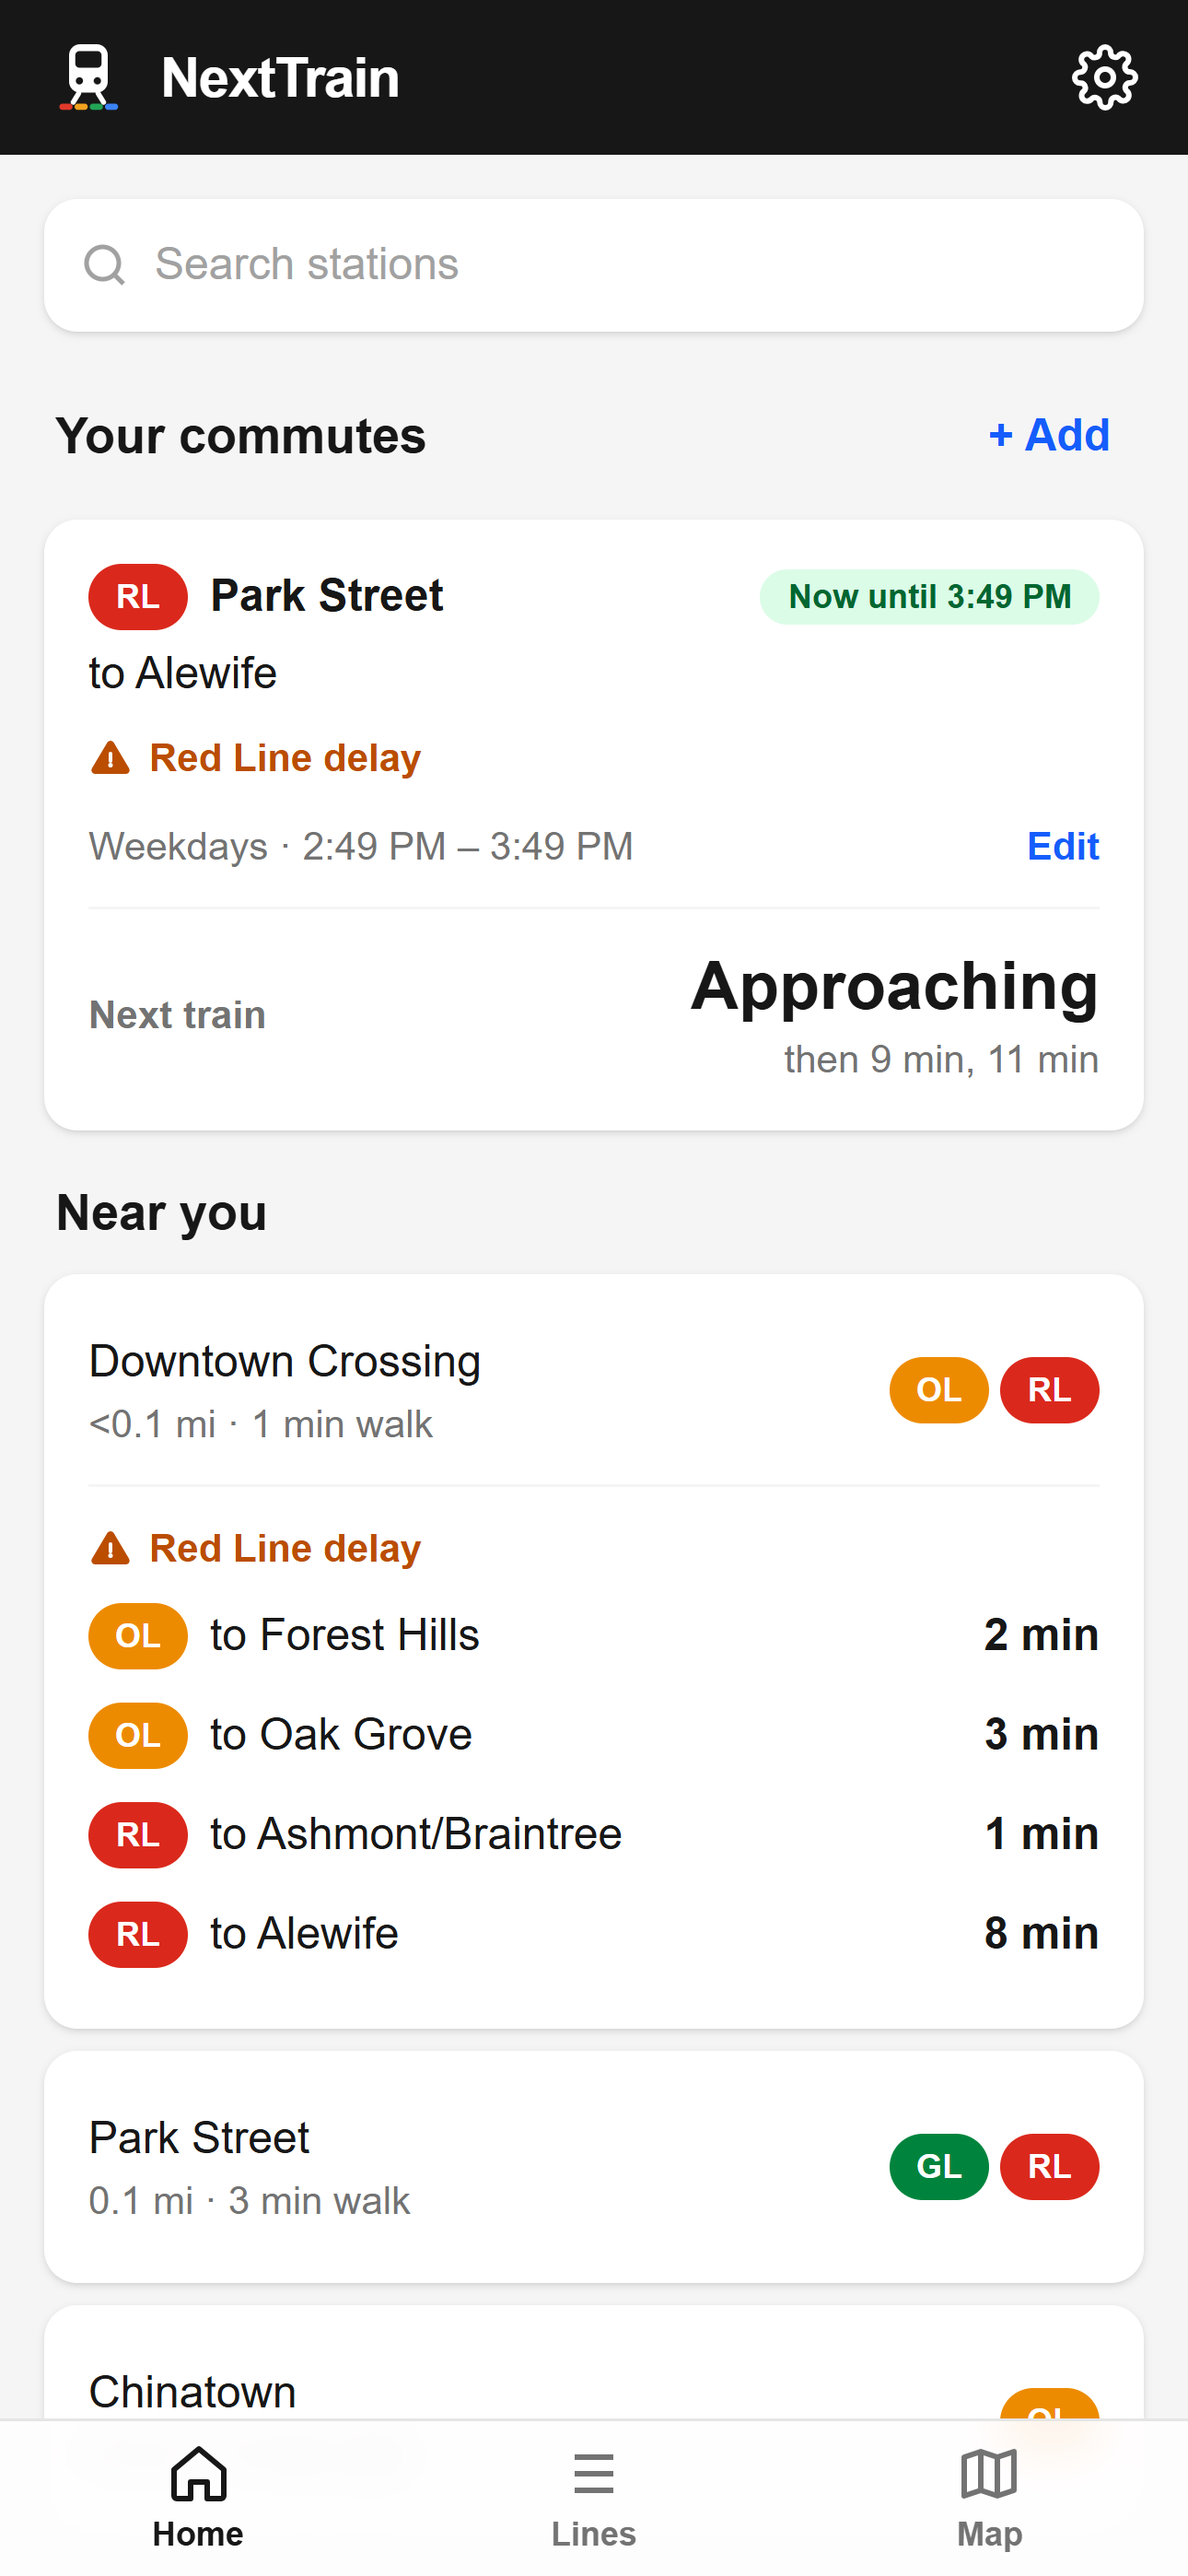
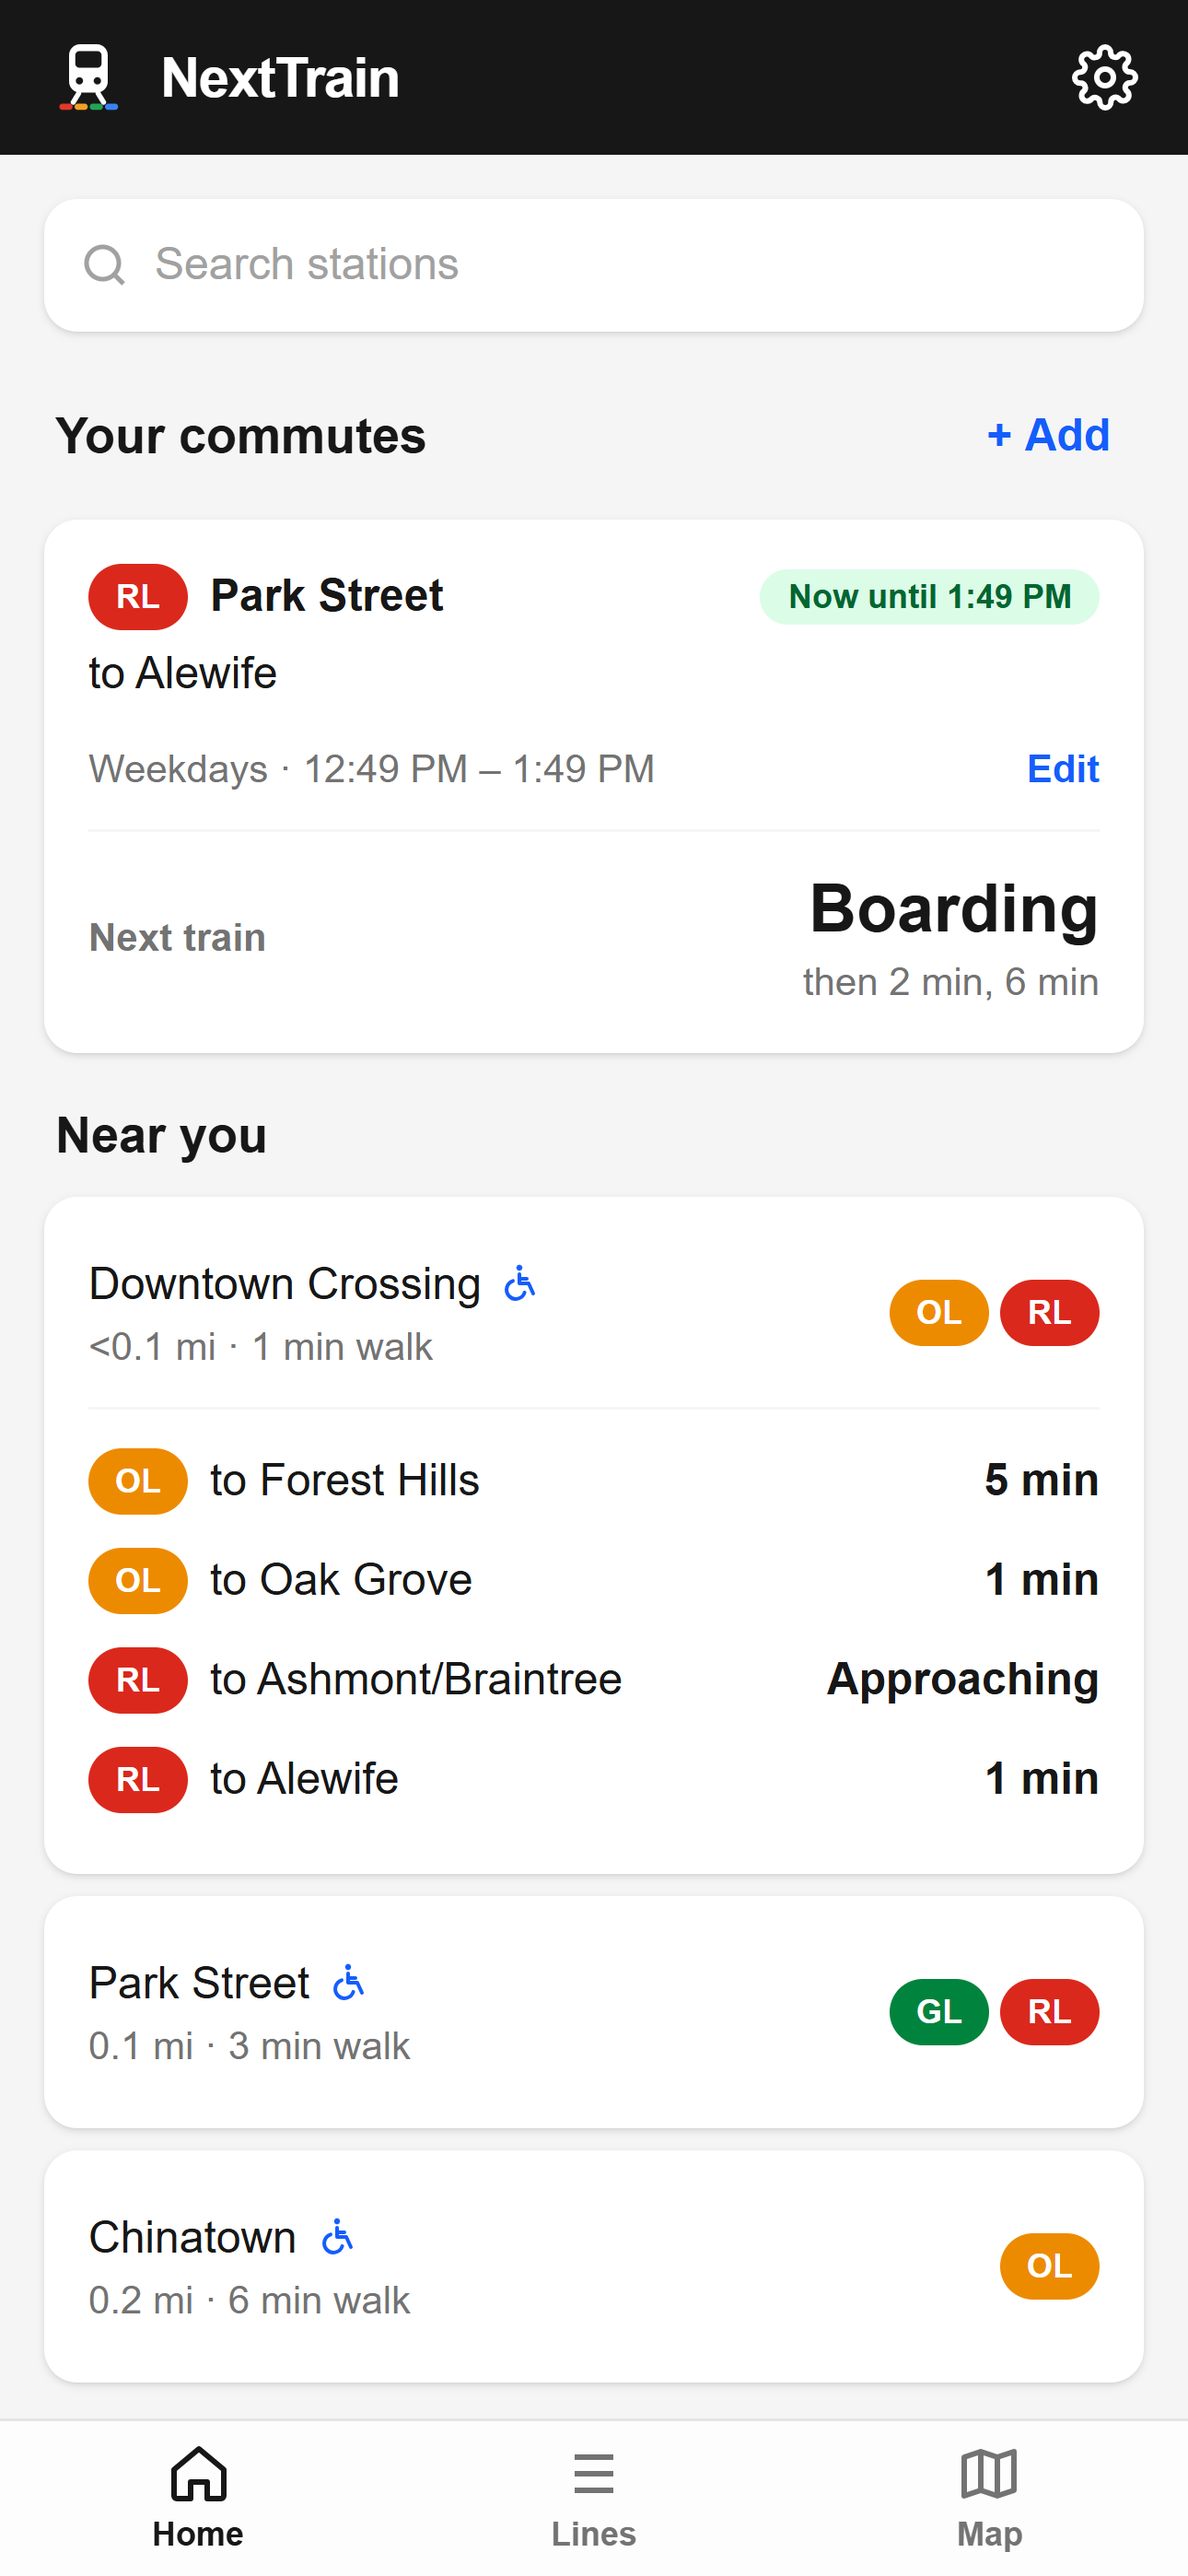
App Store screenshots retaken from the current app (Apple Maps, train cards, crowding) at 6.9" and 6.5" sizes; listing and review notes updated

diff --git a/docs/app-store/README.md b/docs/app-store/README.md
@@ -4,15 +4,21 @@ Everything App Store Connect asks for, drafted from what the app does today. Edi
 
 ## Screenshots
 
-In `screenshots/`: 1290 × 2796 PNGs, an accepted size for the required **6.9" iPhone** slot (Apple scales them down for smaller iPhones). Captured from the real app with live MBTA data on September 29, 2026.
+Captured from the iPhone app build (native mode) with live MBTA data on October 1, 2026, at both sizes App Store Connect asks for:
+
+- `screenshots/`: 1290 × 2796, the **6.9" iPhone** slot
+- `screenshots/6.5-inch/`: 1284 × 2778, the **6.5" iPhone** slot
 
 | File | Shows |
 |---|---|
-| `1-home.png` | Home: a commute happening now with its next train and an alert, and live departures at the nearest station |
-| `2-station.png` | A station's live departures by line and direction |
-| `3-lines.png` | Every line's service status |
-| `4-line-live-trains.png` | The Red Line diagram with live trains and direction arrows |
-| `5-map.png` | The live map of lines, stations, and trains |
+| `1-home.png` | Home: a commute happening now with its next train, and live departures at the nearest station |
+| `2-map.png` | The live map on Apple Maps: every line, station, and train, with direction arrows |
+| `3-map-train.png` | Zoomed in with station names, and a train's card: destination, next stop, and how crowded each car is |
+| `4-station.png` | A station's live departures by line and direction |
+| `5-line-live-trains.png` | The Red Line diagram with live trains and direction arrows |
+| `6-lines.png` | Every line's service status |
+
+To retake them, run the app locally (API on 5112, Vite on 5173) and capture at 430 × 932 and 428 × 926 CSS pixels at 3× with a commute saved. Map shots need the MapKit key in user-secrets.
 
 Make the app **iPhone-only** in Xcode (Supported Destinations: iPhone). Otherwise Apple also requires iPad screenshots and reviews the iPad layout.
 
@@ -59,7 +65,10 @@ SERVICE ALERTS
 Delays, shuttle buses, suspensions, and station closures appear on the lines, stations, and commutes they affect.
 
 LIVE LINE DIAGRAMS AND MAP
-Watch every train move along its line, or across the whole system on the map, with arrows showing which way each one is heading.
+Watch every train move along its line, or across the whole system on the map, with arrows showing which way each one is heading. Zoom in to see station names, or filter to a single line or Green Line branch.
+
+HOW FULL IS IT?
+Tap a train on the map to see where it's headed and, where the MBTA reports it, how crowded each car is.
 
 SEARCH THAT GETS YOU
 "harvard sq", "park st", "gov ctr": type it the way you say it.
@@ -92,9 +101,11 @@ Paste into **App Review Information → Notes**:
 ```
 NextTrain shows live times for Boston's MBTA subway. No account or login is needed.
 
-Reviewing from outside Boston? "Near you" will say you're outside the service area. Search for "Park Street" or open the Lines tab to see live departures, service alerts, and trains moving on each line.
+On first launch, a one-time Welcome screen explains that times are estimates from MBTA data and asks the user to agree to the Terms of Use and Privacy Policy (both linked on that screen). Tap "Agree and continue" to start.
 
-Location permission is optional; it's only used on the device to find nearby stations. To try commutes: Home → Add a commute. Settings → Delete my data removes all saved data.
+Reviewing from outside Boston? "Near you" will say you're outside the service area. Search for "Park Street" or open the Lines tab to see live departures, service alerts, and trains moving on each line. The Map tab shows every train live on Apple Maps; tap a train for its destination and, where the MBTA reports it, how crowded each car is.
+
+Location permission is optional; it's only used on the device to find nearby stations. To try commutes: Home → Add a commute. Settings → Delete my data removes all saved data. Help & support is in Settings.
 ```
 
 ## Info.plist strings
